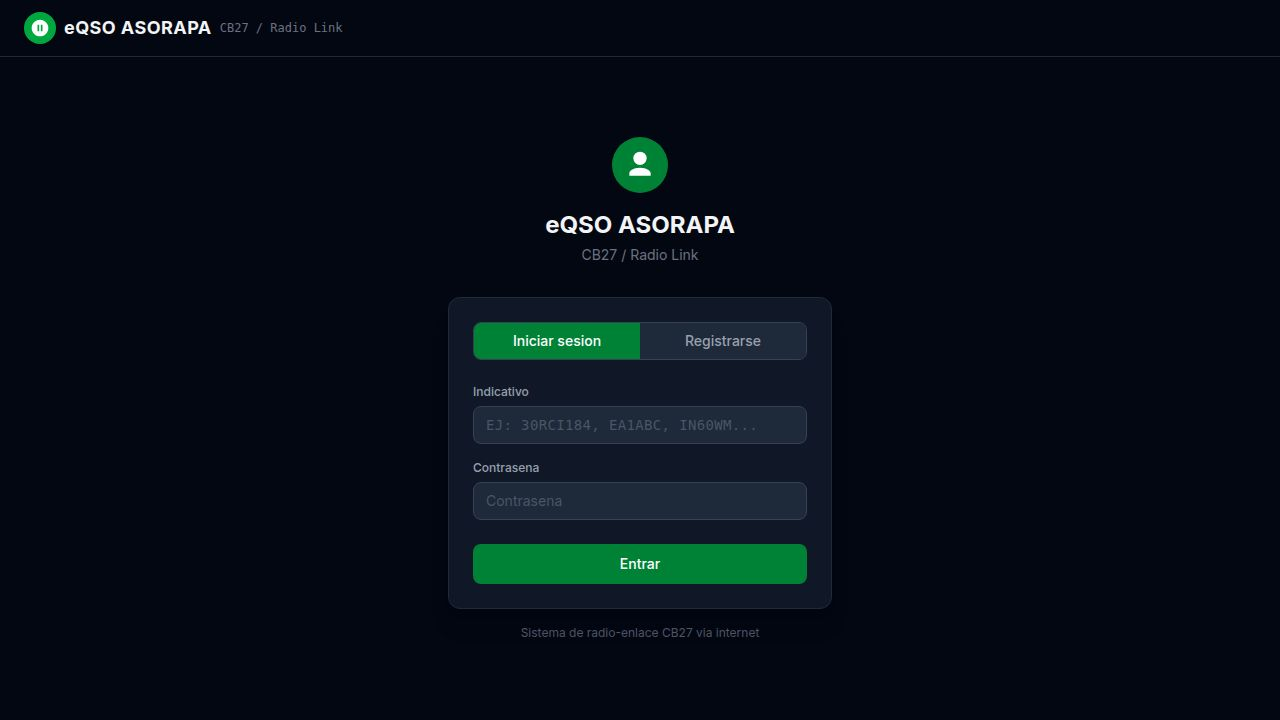
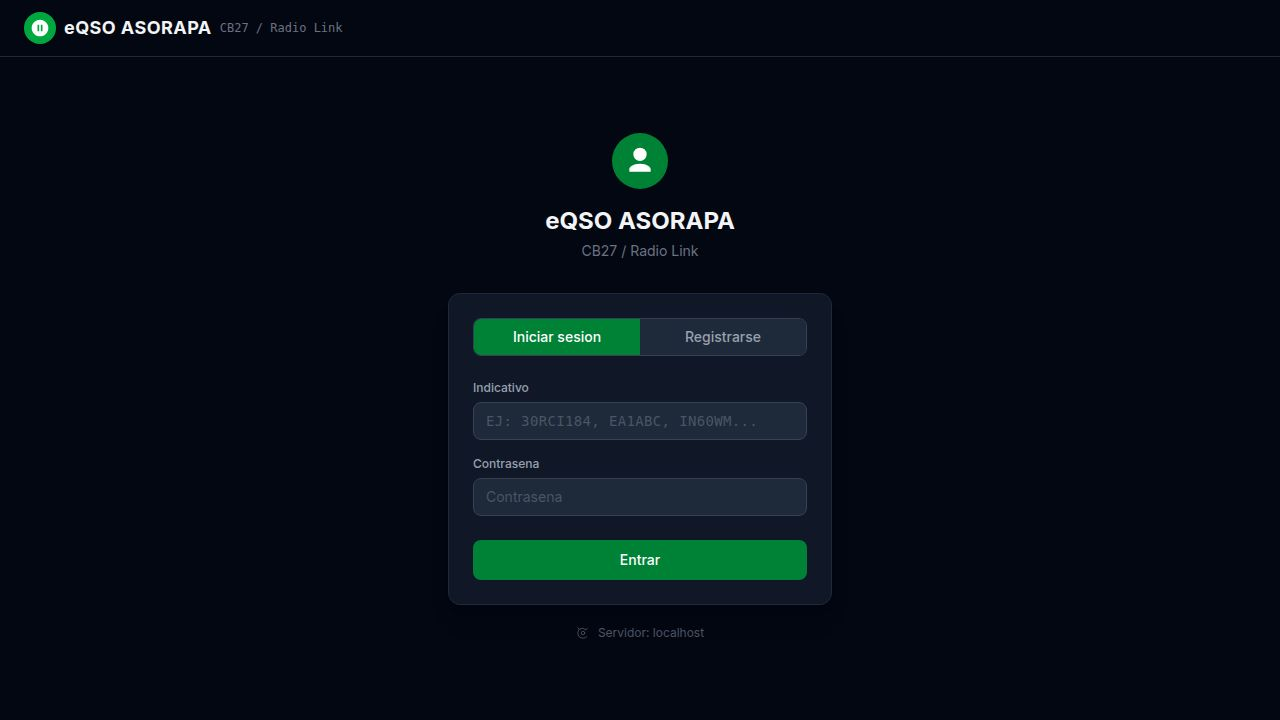
Add system to configure the home server connection
Refactor application to centralize home server URL management in `src/lib/homeServer.ts`, introduce a `HomeServerModal` for user configuration, and update `LoginPanel` to display a server status button.

Replit-Commit-Author: Agent
Replit-Commit-Session-Id: a534d6f4-cb6c-4ba3-9913-1c0eaa8c71b7
Replit-Commit-Checkpoint-Type: full_checkpoint
Replit-Commit-Event-Id: 3b83293f-cb2e-4cfa-9c17-08225f31c7f3
Replit-Commit-Screenshot-Url: https://storage.googleapis.com/screenshot-production-us-central1/20f5b981-52d4-47e2-8164-579b03149638/a534d6f4-cb6c-4ba3-9913-1c0eaa8c71b7/fpsA2cq
Replit-Helium-Checkpoint-Created: true

diff --git a/artifacts/eqso-client/src/components/HomeServerModal.tsx b/artifacts/eqso-client/src/components/HomeServerModal.tsx
@@ -1,0 +1,173 @@
+import { useState } from "react";
+import {
+  getStoredHomeServerUrl,
+  setHomeServerUrl,
+  clearHomeServerUrl,
+  getApiBase,
+  getHomeServerLabel,
+} from "../lib/homeServer";
+
+interface Props {
+  onClose: () => void;
+  onSaved: (label: string) => void;
+}
+
+export function HomeServerModal({ onClose, onSaved }: Props) {
+  const defaultPlaceholder = `${window.location.protocol}//${window.location.host}`;
+  const [url, setUrl] = useState(getStoredHomeServerUrl() ?? "");
+  const [testing, setTesting] = useState(false);
+  const [testResult, setTestResult] = useState<{ ok: boolean; msg: string } | null>(null);
+
+  function normalise(raw: string): string {
+    let u = raw.trim().replace(/\/$/, "");
+    if (u && !u.startsWith("http://") && !u.startsWith("https://")) {
+      u = "https://" + u;
+    }
+    return u;
+  }
+
+  async function handleTest() {
+    const target = normalise(url) || defaultPlaceholder;
+    setTesting(true);
+    setTestResult(null);
+    try {
+      const res = await fetch(`${target}/health`, { signal: AbortSignal.timeout(5000) });
+      if (res.ok) {
+        const data = await res.json().catch(() => ({}));
+        setTestResult({ ok: true, msg: `Servidor OK${data.version ? ` — v${data.version}` : ""}` });
+      } else {
+        setTestResult({ ok: false, msg: `HTTP ${res.status} — servidor no compatible` });
+      }
+    } catch (e: unknown) {
+      const err = e instanceof Error ? e.message : String(e);
+      setTestResult({ ok: false, msg: `Sin respuesta: ${err}` });
+    } finally {
+      setTesting(false);
+    }
+  }
+
+  function handleSave() {
+    const norm = normalise(url);
+    if (norm) {
+      setHomeServerUrl(norm);
+    } else {
+      clearHomeServerUrl();
+    }
+    onSaved(getHomeServerLabel());
+  }
+
+  function handleClear() {
+    setUrl("");
+    clearHomeServerUrl();
+    onSaved(getHomeServerLabel());
+  }
+
+  return (
+    <div className="fixed inset-0 z-50 flex items-center justify-center bg-black/70 backdrop-blur-sm p-4">
+      <div className="bg-gray-900 border border-gray-700 rounded-2xl shadow-2xl w-full max-w-md">
+        {/* Header */}
+        <div className="flex items-center justify-between px-6 py-4 border-b border-gray-800">
+          <div>
+            <h2 className="text-base font-semibold text-gray-100">Servidor home</h2>
+            <p className="text-xs text-gray-500 mt-0.5">
+              Servidor eQSO ASORAPA donde te autenticas y conectas
+            </p>
+          </div>
+          <button
+            onClick={onClose}
+            className="text-gray-500 hover:text-gray-300 transition-colors p-1"
+          >
+            <svg viewBox="0 0 24 24" fill="none" stroke="currentColor" strokeWidth="2" className="w-5 h-5">
+              <path strokeLinecap="round" strokeLinejoin="round" d="M6 18L18 6M6 6l12 12" />
+            </svg>
+          </button>
+        </div>
+
+        {/* Body */}
+        <div className="px-6 py-5 space-y-4">
+          {/* Info box */}
+          <div className="rounded-lg bg-gray-800/60 border border-gray-700 px-4 py-3 text-xs text-gray-400 leading-relaxed space-y-1">
+            <p>
+              El servidor home proporciona autenticacion de usuarios, gestion administrativa
+              y el puente WebSocket para audio local.
+            </p>
+            <p className="text-gray-500">
+              Deja en blanco para usar el mismo servidor que sirve esta pagina
+              (<span className="font-mono text-gray-400">{window.location.host}</span>).
+            </p>
+          </div>
+
+          {/* URL input */}
+          <div>
+            <label className="block text-xs font-medium text-gray-400 mb-1.5">
+              URL del servidor
+            </label>
+            <input
+              type="text"
+              value={url}
+              onChange={(e) => { setUrl(e.target.value); setTestResult(null); }}
+              placeholder={defaultPlaceholder}
+              spellCheck={false}
+              className="w-full bg-gray-800 border border-gray-700 rounded-lg px-3 py-2.5
+                         text-sm text-gray-100 font-mono placeholder-gray-600
+                         focus:outline-none focus:border-green-600 focus:ring-1 focus:ring-green-700
+                         transition-colors"
+            />
+            <p className="mt-1.5 text-xs text-gray-600">
+              Ej: <span className="font-mono">https://eqso.example.com</span> o
+              {" "}<span className="font-mono">http://192.168.1.10:8080</span>
+            </p>
+          </div>
+
+          {/* Test result */}
+          {testResult && (
+            <div className={`rounded-lg px-4 py-2.5 text-xs ${
+              testResult.ok
+                ? "bg-green-950 border border-green-800 text-green-300"
+                : "bg-red-950 border border-red-800 text-red-300"
+            }`}>
+              {testResult.msg}
+            </div>
+          )}
+
+          {/* Current active server */}
+          <div className="text-xs text-gray-600">
+            Activo ahora: <span className="font-mono text-gray-500">{getApiBase()}</span>
+          </div>
+        </div>
+
+        {/* Footer */}
+        <div className="flex items-center gap-2 px-6 pb-5">
+          <button
+            onClick={handleTest}
+            disabled={testing}
+            className="flex-none px-4 py-2 rounded-lg text-sm font-medium bg-gray-800 hover:bg-gray-700
+                       text-gray-300 border border-gray-700 transition-colors disabled:opacity-50"
+          >
+            {testing ? "Probando..." : "Probar conexion"}
+          </button>
+
+          <div className="flex-1" />
+
+          {(getStoredHomeServerUrl()) && (
+            <button
+              onClick={handleClear}
+              className="px-3 py-2 rounded-lg text-xs text-gray-500 hover:text-red-400
+                         hover:bg-red-950/30 transition-colors"
+            >
+              Restaurar por defecto
+            </button>
+          )}
+
+          <button
+            onClick={handleSave}
+            className="px-5 py-2 rounded-lg text-sm font-medium bg-green-700 hover:bg-green-600
+                       text-white transition-colors"
+          >
+            Guardar
+          </button>
+        </div>
+      </div>
+    </div>
+  );
+}

diff --git a/artifacts/eqso-client/src/components/LoginPanel.tsx b/artifacts/eqso-client/src/components/LoginPanel.tsx
@@ -1,4 +1,6 @@
 import { useState } from "react";
+import { getHomeServerLabel } from "../lib/homeServer";
+import { HomeServerModal } from "./HomeServerModal";
 
 export interface AuthSession {
   token: string;
@@ -11,15 +13,8 @@ interface LoginPanelProps {
   onAuth: (session: AuthSession) => void;
 }
 
-export function getApiBase(): string {
-  const base = import.meta.env.BASE_URL?.replace(/\/$/, "") ?? "";
-  if (import.meta.env.VITE_API_WS_URL) {
-    const wsUrl = new URL(import.meta.env.VITE_API_WS_URL);
-    const proto = wsUrl.protocol === "wss:" ? "https:" : "http:";
-    return `${proto}//${wsUrl.host}${base}`;
-  }
-  return `${window.location.protocol}//${window.location.host}${base}`;
-}
+// Re-export so all existing imports still work
+export { getApiBase } from "../lib/homeServer";
 
 type Mode = "login" | "register";
 
@@ -32,6 +27,8 @@ export function LoginPanel({ onAuth }: LoginPanelProps) {
   const [loading, setLoading] = useState(false);
   const [error, setError] = useState<string | null>(null);
   const [pendingMsg, setPendingMsg] = useState<string | null>(null);
+  const [showServerModal, setShowServerModal] = useState(false);
+  const [serverLabel, setServerLabel] = useState(() => getHomeServerLabel());
 
   const handleSubmit = async (e: React.FormEvent) => {
     e.preventDefault();
@@ -262,10 +259,25 @@ export function LoginPanel({ onAuth }: LoginPanelProps) {
           )}
         </div>
 
-        <p className="text-center text-xs text-gray-600 mt-4">
-          Sistema de radio-enlace CB27 via internet
-        </p>
+        {/* Server config button */}
+        <button
+          onClick={() => setShowServerModal(true)}
+          className="mt-4 w-full flex items-center justify-center gap-2 text-xs text-gray-600 hover:text-gray-400 transition-colors py-1"
+        >
+          <svg viewBox="0 0 24 24" fill="none" stroke="currentColor" strokeWidth="1.5" className="w-3.5 h-3.5">
+            <path strokeLinecap="round" strokeLinejoin="round" d="M5.636 5.636a9 9 0 1 0 12.728 12.728M5.636 5.636A9 9 0 0 1 17 6.343M5.636 5.636 3 3m14 3.343 2.364-2.364" />
+            <circle cx="12" cy="12" r="3" strokeLinecap="round" strokeLinejoin="round" />
+          </svg>
+          Servidor: {serverLabel}
+        </button>
       </div>
+
+      {showServerModal && (
+        <HomeServerModal
+          onClose={() => setShowServerModal(false)}
+          onSaved={(label) => { setServerLabel(label); setShowServerModal(false); }}
+        />
+      )}
     </div>
   );
 }

diff --git a/artifacts/eqso-client/src/lib/homeServer.ts b/artifacts/eqso-client/src/lib/homeServer.ts
@@ -1,0 +1,85 @@
+const LS_KEY = "home_server_url";
+
+/**
+ * Returns the stored home server URL (stripped of trailing slash),
+ * or null if using the same-host default.
+ */
+export function getStoredHomeServerUrl(): string | null {
+  try {
+    const v = localStorage.getItem(LS_KEY);
+    return v ? v.replace(/\/$/, "") : null;
+  } catch {
+    return null;
+  }
+}
+
+export function setHomeServerUrl(url: string): void {
+  try {
+    localStorage.setItem(LS_KEY, url.replace(/\/$/, ""));
+  } catch { /* ignore */ }
+}
+
+export function clearHomeServerUrl(): void {
+  try {
+    localStorage.removeItem(LS_KEY);
+  } catch { /* ignore */ }
+}
+
+/**
+ * HTTP base for API calls — e.g. https://servidor.example.com
+ * Respects VITE_API_WS_URL build var, then localStorage, then same-host default.
+ */
+export function getApiBase(): string {
+  const pathBase = import.meta.env.BASE_URL?.replace(/\/$/, "") ?? "";
+
+  // 1. Build-time override
+  if (import.meta.env.VITE_API_WS_URL) {
+    const wsUrl = new URL(import.meta.env.VITE_API_WS_URL);
+    const proto = wsUrl.protocol === "wss:" ? "https:" : "http:";
+    return `${proto}//${wsUrl.host}${pathBase}`;
+  }
+
+  // 2. Runtime localStorage config
+  const stored = getStoredHomeServerUrl();
+  if (stored) {
+    return stored; // already includes any path prefix the user typed
+  }
+
+  // 3. Same-host default
+  return `${window.location.protocol}//${window.location.host}${pathBase}`;
+}
+
+/**
+ * WebSocket URL — e.g. wss://servidor.example.com/ws
+ */
+export function getWsUrl(): string {
+  const pathBase = import.meta.env.BASE_URL?.replace(/\/$/, "") ?? "";
+
+  // 1. Build-time override
+  if (import.meta.env.VITE_API_WS_URL) {
+    return import.meta.env.VITE_API_WS_URL as string;
+  }
+
+  // 2. Runtime localStorage config
+  const stored = getStoredHomeServerUrl();
+  if (stored) {
+    const u = new URL(stored);
+    const wsp = u.protocol === "https:" ? "wss:" : "ws:";
+    return `${wsp}//${u.host}${u.pathname.replace(/\/$/, "")}${pathBase}/ws`;
+  }
+
+  // 3. Same-host default
+  const proto = window.location.protocol === "https:" ? "wss:" : "ws:";
+  return `${proto}//${window.location.host}${pathBase}/ws`;
+}
+
+/**
+ * Human-readable label for the current home server.
+ */
+export function getHomeServerLabel(): string {
+  const stored = getStoredHomeServerUrl();
+  if (stored) {
+    try { return new URL(stored).host; } catch { return stored; }
+  }
+  return window.location.host;
+}

diff --git a/artifacts/eqso-client/src/hooks/useEqsoClient.ts b/artifacts/eqso-client/src/hooks/useEqsoClient.ts
@@ -1,4 +1,5 @@
 import { useCallback, useEffect, useRef, useState } from "react";
+import { getWsUrl } from "../lib/homeServer";
 
 export type ConnectionStatus = "disconnected" | "connecting" | "connected" | "error";
 
@@ -80,13 +81,6 @@ export interface EqsoActions {
 const WS_AUDIO_LOCAL  = 0x01; // local relay: Uint8 unsigned PCM
 const WS_AUDIO_REMOTE = 0x11; // remote RX:   Float32 PCM decoded from GSM
 const WS_PCM_TX       = 0x05; // remote TX:   Int16 signed PCM → GSM encode on server
-
-function getWsUrl(): string {
-  const proto = window.location.protocol === "https:" ? "wss:" : "ws:";
-  const host = window.location.host;
-  const base = import.meta.env.BASE_URL?.replace(/\/$/, "") ?? "";
-  return `${proto}//${host}${base}/ws`;
-}
 
 export function useEqsoClient(
   onAudio?: (data: ArrayBuffer, isFloat32: boolean) => void
